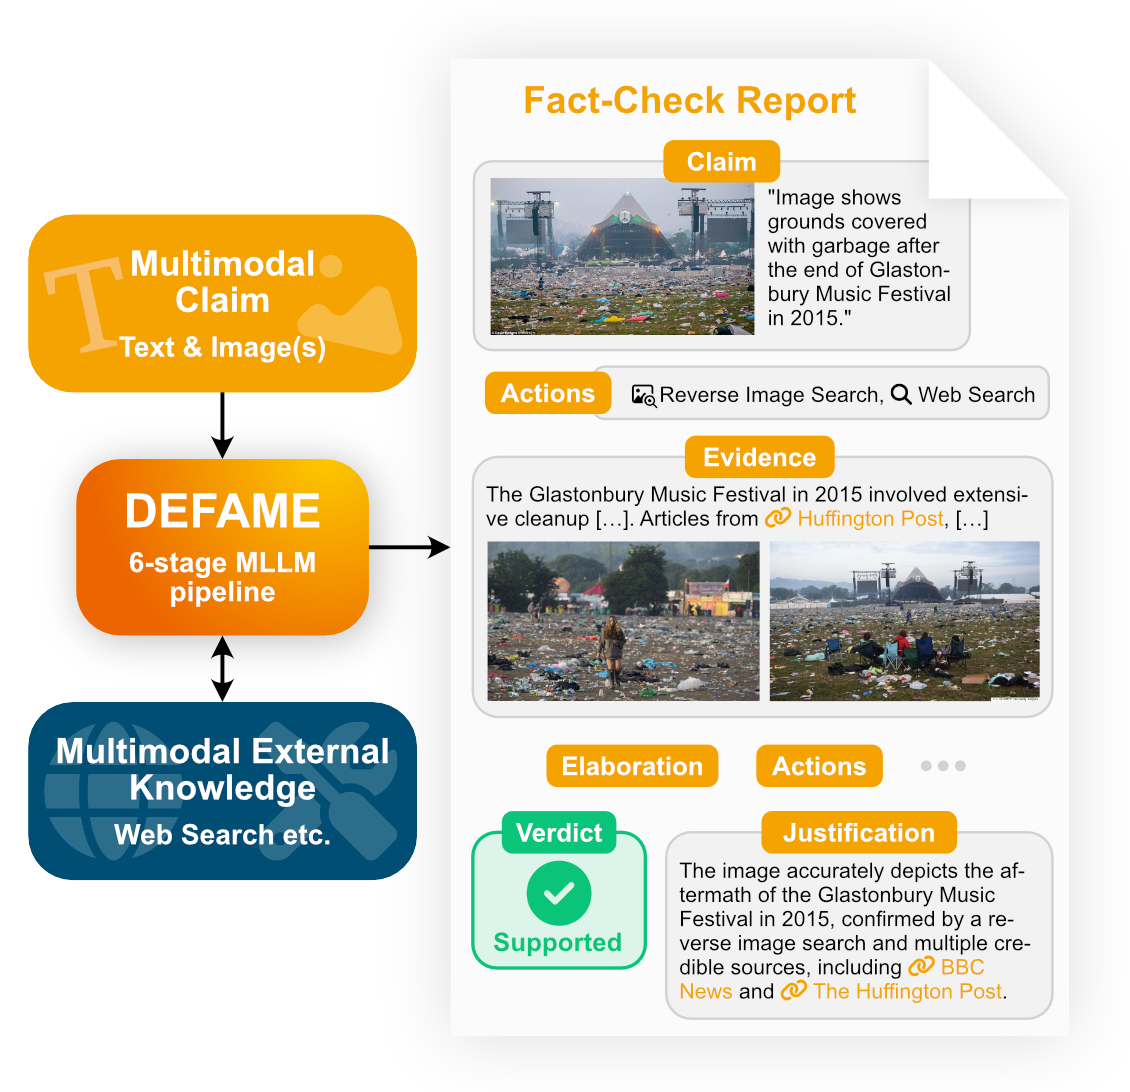
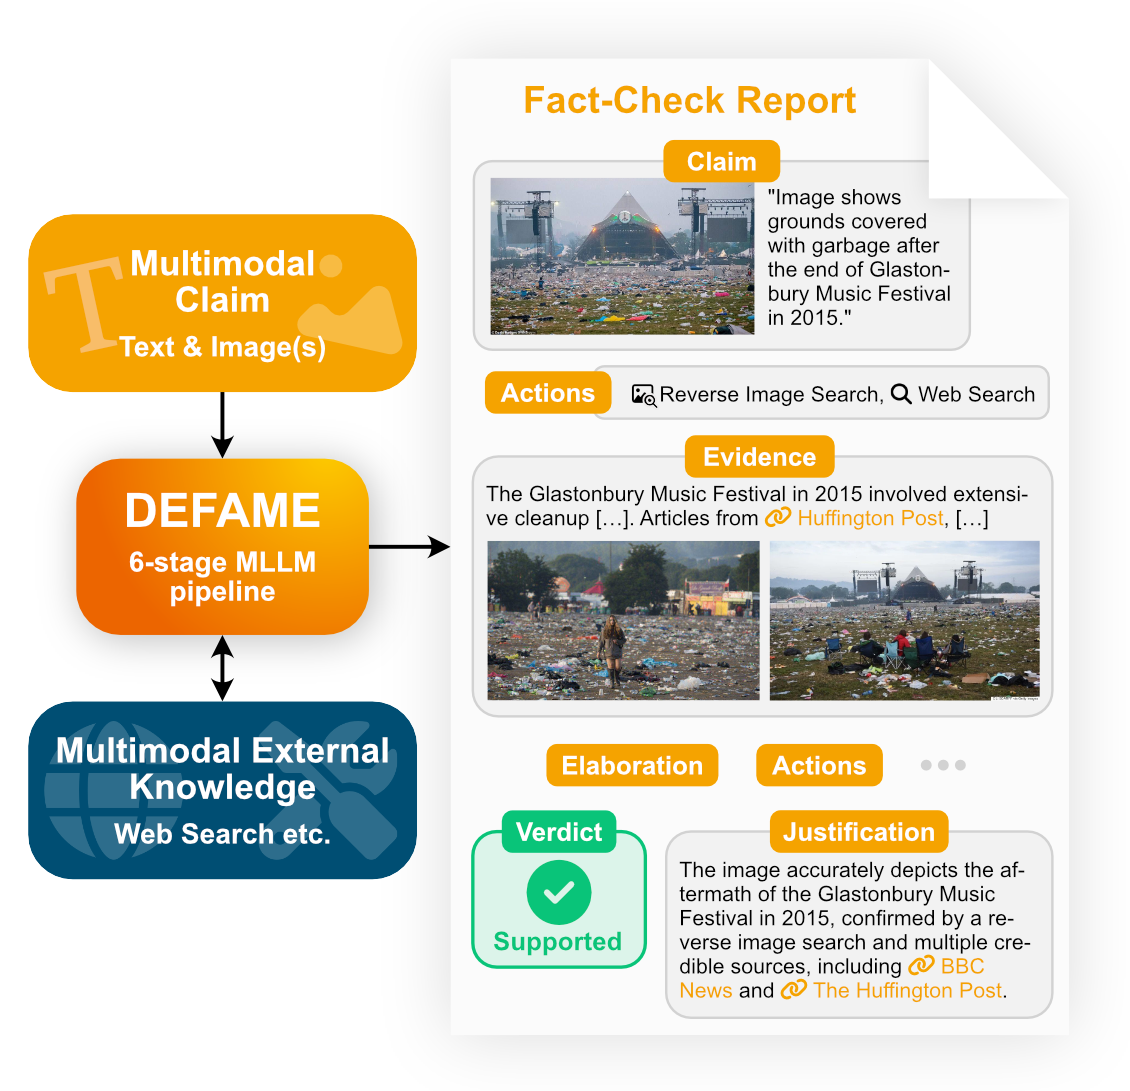
Fix bug in Serper date restriction, update and automate CR+ integration, update AVeriTeC extra_judge_rules, enable run_multiple_experiments to process YAMLs in subdirs, update README.md and update figures

diff --git a/defame/eval/claimreview2024/benchmark.py b/defame/eval/claimreview2024/benchmark.py
@@ -4,6 +4,7 @@ from datetime import datetime
 from pathlib import Path
 
 from ezmm import Image
+from huggingface_hub import snapshot_download
 
 from config.globals import data_root_dir
 from defame.common import Label, Claim
@@ -13,7 +14,7 @@ from defame.evidence_retrieval.tools import Geolocate, Search
 
 class ClaimReview2024(Benchmark):
     name = "ClaimReview2024+"
-    shorthand = "claimreview"
+    shorthand = "claimreview2024"
 
     is_multimodal = True
 
@@ -36,26 +37,36 @@ class ClaimReview2024(Benchmark):
     available_actions = [Search, Geolocate]
 
     def __init__(self, variant="test"):
-        super().__init__(variant, "ClaimReview2024/data_core.json")
+        super().__init__(variant, "ClaimReview2024plus/test.json")
 
     def _load_data(self) -> list[dict]:
+        if not self.file_path.exists():
+            # Download the dataset from Hugging Face:
+            # Ensure you are logged in via `huggingface-cli login` and have
+            # got access to the dataset
+            snapshot_download(repo_id="MAI-Lab/ClaimReview2024plus",
+                              repo_type="dataset",
+                              local_dir=self.file_path.parent)
+
         with open(self.file_path, "r") as f:
             raw_data = json.load(f)
 
         data = []
         for i, entry in enumerate(raw_data):
-            image_path = Path(data_root_dir / "MAFC" / entry["claimImage"][0]) if entry["claimImage"] else None
+            image_path = Path(data_root_dir / "MAFC" / entry["image"][0]) if entry["image"] else None
             image = Image(image_path) if (image_path and os.path.exists(image_path)) else None
-            claim = [image, entry["text"]] if image else entry["text"]
+            claim_text = f"{image.reference} {entry['text']}" if image else f"{entry['text']}"
             label_text = entry.get("label")
-            date = datetime.strptime(entry.get("claimDate"), "%Y-%m-%dT%H:%M:%SZ") if entry.get("claimDate") else None
+            date_str = entry.get("date")
+            date = datetime.strptime(date_str, "%Y-%m-%dT%H:%M:%SZ") if date_str else None
             claim_entry = {
                 "id": i,
-                "input": Claim(claim,
+                "input": Claim(claim_text,
                                id=i,
                                author=entry.get("author"),
                                date=date),
                 "label": self.class_mapping.get(label_text),
+                "justification": "",
             }
             data.append(claim_entry)
 

diff --git a/defame/eval/averitec/benchmark.py b/defame/eval/averitec/benchmark.py
@@ -27,15 +27,17 @@ class AVeriTeC(Benchmark):
             """The fact-check does not contain sufficient information to come to a conclusion. In particular,
             there is substantial lack of both supporting and refuting evidence.""",
         Label.CONFLICTING:
-            """The Claim has both supporting and refuting evidence from multiple sources or the Claim is technically true but misleads by excluding important context. """,
+            """The Claim has both supporting and refuting evidence from multiple sources or the Claim is 
+            technically true but misleads by excluding important context. """,
         Label.REFUTED:
             """The knowledge from the fact-check explicitly and clearly refutes at least substantial parts
             if not even the whole the Claim.""",
     }
 
-    extra_judge_rules = """* **Do not commit the "argument from ignorance" fallacy**: The absence of evidence
-    for the Claim does NOT prove that the Claim is refuted. Instead, the Claim is simply unsupported--which is a case of 
-    'not enough information'."""
+    extra_judge_rules = """Note that **the absence of evidence itself can be also regarded as
+    evidence** if the context suggests that evidence should be present. This is particularly the
+    case when the Claim implies news coverage or other observable consequences and sufficient time
+    has passed for the evidence to emerge. In such a case, the Claim is likely to be refuted."""
 
     available_actions = [Search]
 

diff --git a/scripts/claimreview2024/evaluate.py b/scripts/claimreview2024/evaluate.py
@@ -1,16 +1,17 @@
 if __name__ == '__main__':  # evaluation uses multiprocessing
     from defame.eval.evaluate import evaluate
 
-    variant = "dev"
     evaluate(
         llm="gpt_4o",
-        tools_config=dict(searcher=dict(
-            search_config=dict(
-                averitec_kb=dict(variant=variant),
-                # google=dict(),
+        tools_config=dict(
+            searcher=dict(
+                search_config=dict(
+                    google=dict(),
+                ),
+                limit_per_search=3
             ),
-            limit_per_search=5
-        )),
+            geolocator=dict()
+        ),
         fact_checker_kwargs=dict(
             procedure_variant="summary/dynamic",
             interpret=False,
@@ -21,12 +22,12 @@ if __name__ == '__main__':  # evaluation uses multiprocessing
             max_result_len=64_000,  # characters
         ),
         llm_kwargs=dict(temperature=0.01),
-        benchmark_name="averitec",
-        benchmark_kwargs=dict(variant=variant),
-        allowed_actions=["search"],
+        benchmark_name="claimreview2024",
+        benchmark_kwargs=dict(variant="dev"),
+        allowed_actions=["search", "geolocate"],
         n_samples=None,
         sample_ids=None, # list of integers
         random_sampling=False,
-        print_log_level="log",
-        n_workers=8,
+        print_log_level="info",
+        n_workers=1,
     )

diff --git a/defame/eval/utils.py b/defame/eval/utils.py
@@ -3,7 +3,7 @@ from multiprocessing import set_start_method
 from pathlib import Path
 
 from defame.eval.evaluate import evaluate
-from defame.utils.utils import load_config
+from defame.utils.utils import load_config, get_yaml_files
 
 set_start_method("spawn")
 
@@ -20,8 +20,8 @@ def run_multiple_experiments(config_dir: str):
     the specified directory. Deletes each config file after it was read."""
     config_dir = Path(config_dir)
 
-    while configs := os.listdir(config_dir):
-        config_path = config_dir / configs[0]
+    while configs := get_yaml_files(config_dir):
+        config_path = configs[0]
         experiment_params = load_config(config_path)
         evaluate(experiment_name=config_path.stem,
                  **experiment_params)

diff --git a/defame/utils/utils.py b/defame/utils/utils.py
@@ -101,3 +101,10 @@ def deep_diff(a, b, keep: Sequence = None) -> Mapping | Sequence | None:
             return []
     else:
         return b if a != b else None  # Replace if different
+
+
+def get_yaml_files(path: str | Path) -> list[Path]:
+    """Traverses the directory tree starting at `path` and returns a list of all
+    YAML filepaths contained in it."""
+    matches = Path(path).glob("**/*.yaml")
+    return [match for match in matches]

diff --git a/defame/evidence_retrieval/integrations/search/serper.py b/defame/evidence_retrieval/integrations/search/serper.py
@@ -65,7 +65,7 @@ class SerperAPI:
         assert query.text, 'Query text must not be None.'
 
         if query.end_date is not None:
-            end_date = query.end_date.strftime('%d/%m/%Y')
+            end_date = query.end_date.strftime('%m/%d/%Y')
             tbs = f"cdr:1,cd_min:1/1/1900,cd_max:{end_date}"
         else:
             tbs = self.tbs

diff --git a/defame/eval/__init__.py b/defame/eval/__init__.py
@@ -5,7 +5,7 @@ from .verite.benchmark import VERITE
 from .newsclippings.benchmark import NewsCLIPpings
 from .dgm4.benchmark import DGM4
 from .mocheg.benchmark import MOCHEG
-from .claimreview.benchmark import ClaimReview2024
+from .claimreview2024.benchmark import ClaimReview2024
 
 BENCHMARK_REGISTRY = {
     AVeriTeC,

diff --git a/scripts/run_config.py b/scripts/run_config.py
@@ -2,4 +2,4 @@
 
 if __name__ == '__main__':
     from defame.eval.utils import run_experiment
-    run_experiment(config_file_path="config/verite/default.yaml")
+    run_experiment(config_file_path="in/defame.yaml")

diff --git a/README.md b/README.md
@@ -1,12 +1,17 @@
 # DEFAME: Dynamic Evidence-based FAct-checking with Multimodal Experts
 
-[![Paper](https://img.shields.io/badge/Paper-EC6500?style=for-the-badge&logo=bookstack&logoColor=white)](https://arxiv.org/abs/2412.10510)&nbsp;&nbsp;&nbsp;[![License](https://img.shields.io/badge/License-Apache--2.0-F5A300?style=for-the-badge)](https://opensource.org/licenses/Apache-2.0)
+[![Paper](https://img.shields.io/badge/ICML_Paper-EC6500?style=for-the-badge&logo=bookstack&logoColor=white)](https://arxiv.org/abs/2412.10510)&nbsp;&nbsp;&nbsp;[![License](https://img.shields.io/badge/License-Apache--2.0-F5A300?style=for-the-badge)](https://opensource.org/licenses/Apache-2.0)
 
 ![Teaser.png](resources%2FTeaser.png)
 
 This is the implementation of **Dynamic Evidence-based FAct-checking with Multimodal Experts (DEFAME)**, a strong multimodal claim verification system. DEFAME decomposes the fact-checking task into a dynamic 6-stage pipeline, leveraging an MLLM to accomplish sub-tasks like planning, reasoning, and evidence summarization.
 
-DEFAME is the successor of our challenge-winning unimodal fact-checking system, [InFact](https://aclanthology.org/2024.fever-1.12/). This repository is under constant development. You can access the original code of InFact in [this release](https://github.com/multimodal-ai-lab/DEFAME/tree/infact), the original code of DEFAME – as used in our paper – in [that release](https://github.com/multimodal-ai-lab/DEFAME/tree/v2.0.0).
+> [!NOTE]  
+> This is the most recent version of DEFAME. The `main` branch is under continuous development. If you are looking for the version used in our [ICML 2025 paper](https://arxiv.org/abs/2412.10510), visit the [`icml` branch](https://github.com/multimodal-ai-lab/DEFAME/tree/icml).
+> 
+> If you're looking for the **ClaimReview2024+** benchmark, you find it in [this Hugging Face repository](https://huggingface.co/datasets/MAI-Lab/ClaimReview2024plus).
+> 
+> DEFAME is the successor of our challenge-winning unimodal fact-checking system, [InFact](https://aclanthology.org/2024.fever-1.12/). You can access the original code of InFact in the [InFact branch](https://github.com/multimodal-ai-lab/DEFAME/tree/infact).
 
 
 ## Table of Contents
@@ -17,6 +22,7 @@ DEFAME is the successor of our challenge-winning unimodal fact-checking system, 
 - [API](#api)
 - [Web Interface](#web-interface)
 - [License](#license)
+- [Cite this Work](#cite-this-work)
 
 
 ## Installation
@@ -63,29 +69,29 @@ Follow these steps:
 If you want to evaluate DEFAME on a benchmark, you need to do the following:
 
 1. Download the needed benchmarks. We use:
-   1. [AVeriTeC](https://huggingface.co/chenxwh/AVeriTeC/tree/main/data)
-   2. [VERITE](https://github.com/stevejpapad/image-text-verification)
-   3. [MOCHEG](https://docs.google.com/forms/d/e/1FAIpQLScAGehM6X9ARZWW3Fgt7fWMhc_Cec6iiAAN4Rn1BHAk6KOfbw/viewform)
-   4. ClaimReview2024+ (Link TBD)
+   1. [AVeriTeC](https://huggingface.co/chenxwh/AVeriTeC/tree/main/data): Supports auto-download during runtime, no manual download needed.
+   2. [MOCHEG](https://docs.google.com/forms/d/e/1FAIpQLScAGehM6X9ARZWW3Fgt7fWMhc_Cec6iiAAN4Rn1BHAk6KOfbw/viewform)
+   3. [VERITE](https://github.com/stevejpapad/image-text-verification)
+   4. [ClaimReview2024+](https://huggingface.co/datasets/MAI-Lab/ClaimReview2024plus): Supports automatic download during runtime. Ensure to be logged in via `huggingface-cli login` and that you've got access to the dataset.
    
-2. Order the benchmarks in the following directory structure:
+2. Order the first three benchmarks in the following directory structure:
    ```plaintext
    your_dataset_folder/
+   ├── AVeriTeC/
+   │   ├── train.json
+   │   ├── dev.json
+   │   └── ...
    ├── MOCHEG/
    │   ├── images/
    │   ├── train/
    │   └── ...
-   ├── VERITE/
-   │   ├── images/
-   │   ├── VERITE.csv
-   │   └── ...
-   └── AVeriTeC/
-       ├── train.json
-       ├── dev.json
+   └── VERITE/
+       ├── images/
+       ├── VERITE.csv
        └── ...
    ```
 
-3. Include the path to `your_dataset_folder` in the `data_base_dir` variable inside `config/globals.py`. DEFAME will automatically locate and process the datasets within `MOCHEG`, `VERITE`, and `AVeriTeC` when needed.
+3. Include the path to `your_dataset_folder` in the `data_base_dir` variable inside `config/globals.py`. DEFAME will automatically locate and process the datasets when needed.
 
 
 ## Usage
@@ -199,16 +205,15 @@ DEFAME provides a web-based graphical user interface, supporting the input and v
 ## [License](LICENSE)
 This repository and all its contents (except for the contents inside `third_party/`) are licensed under the [Apache 2.0 License](http://www.apache.org/licenses/LICENSE-2.0).
 
+
+## Cite this Work
 Please use the following BibTeX to refer to the authors:
 ```bibtex
-@article{braun2024defamedynamicevidencebasedfactchecking,
-   title={DEFAME: Dynamic Evidence-based FAct-checking with Multimodal Experts}, 
-   author={Tobias Braun and Mark Rothermel and Marcus Rohrbach and Anna Rohrbach},
-   year={2024},
-   eprint={2412.10510},
-   archivePrefix={arXiv},
-   primaryClass={cs.CV},
-   url={https://arxiv.org/abs/2412.10510}, 
-   journal={arXiv preprint arXiv:2412.10510},
+@inproceedings{braun2024defame,
+   title = {{DEFAME: Dynamic Evidence-based FAct-checking with Multimodal Experts}}, 
+   author = {Tobias Braun and Mark Rothermel and Marcus Rohrbach and Anna Rohrbach},
+   booktitle = {Proceedings of the 42nd International Conference on Machine Learning},
+   year = {2025},
+   url = {https://arxiv.org/abs/2412.10510},
 }
 ```
